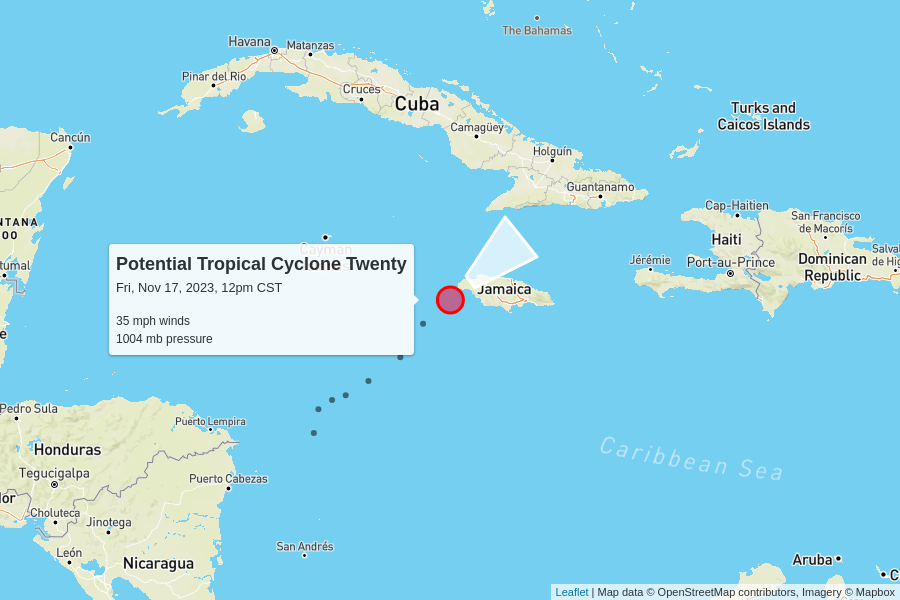
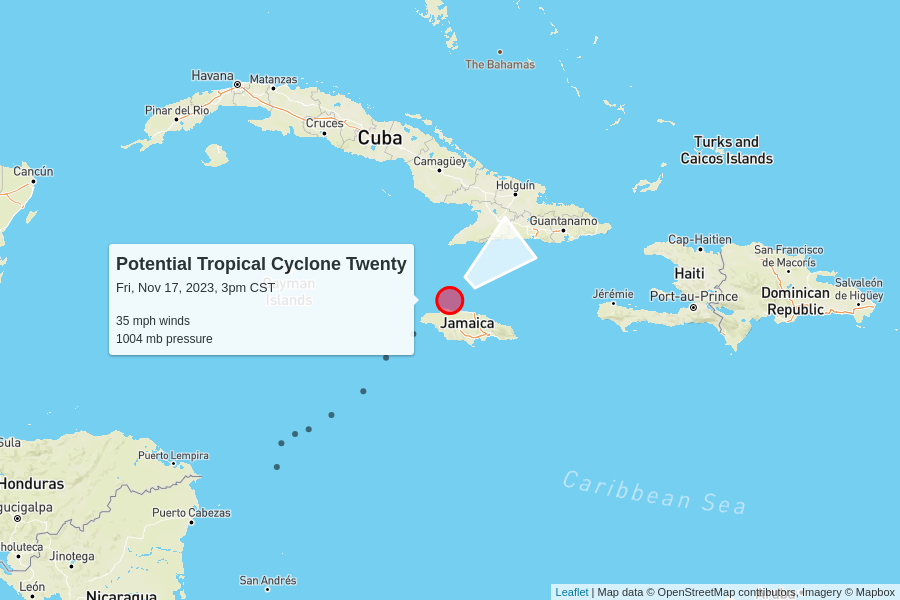
automatic update

diff --git a/docs/index.html b/docs/index.html
@@ -102,7 +102,7 @@
         <td colspan="6" class="storm category-0" >
           <h2>
             Potential Tropical Cyclone Twenty
-            <p class="updated">last updated <span data-time>2023-11-17T18:00:00.000Z</span></p>
+            <p class="updated">last updated <span data-time>2023-11-17T21:00:00.000Z</span></p>
           </h2>
         </td>
       </tr>
@@ -120,7 +120,7 @@
         <td>35 mph<br>0 mph since last update</td>
         <td>1004 mb<br>0 mb since last update</td>
         <td>
-          16 mph to the northeast
+          17 mph to the northeast
           <br/>
           <span style="display: inline-block; font-size: 1.5em; transform: rotate(50deg);">↑</span>
         </td>
